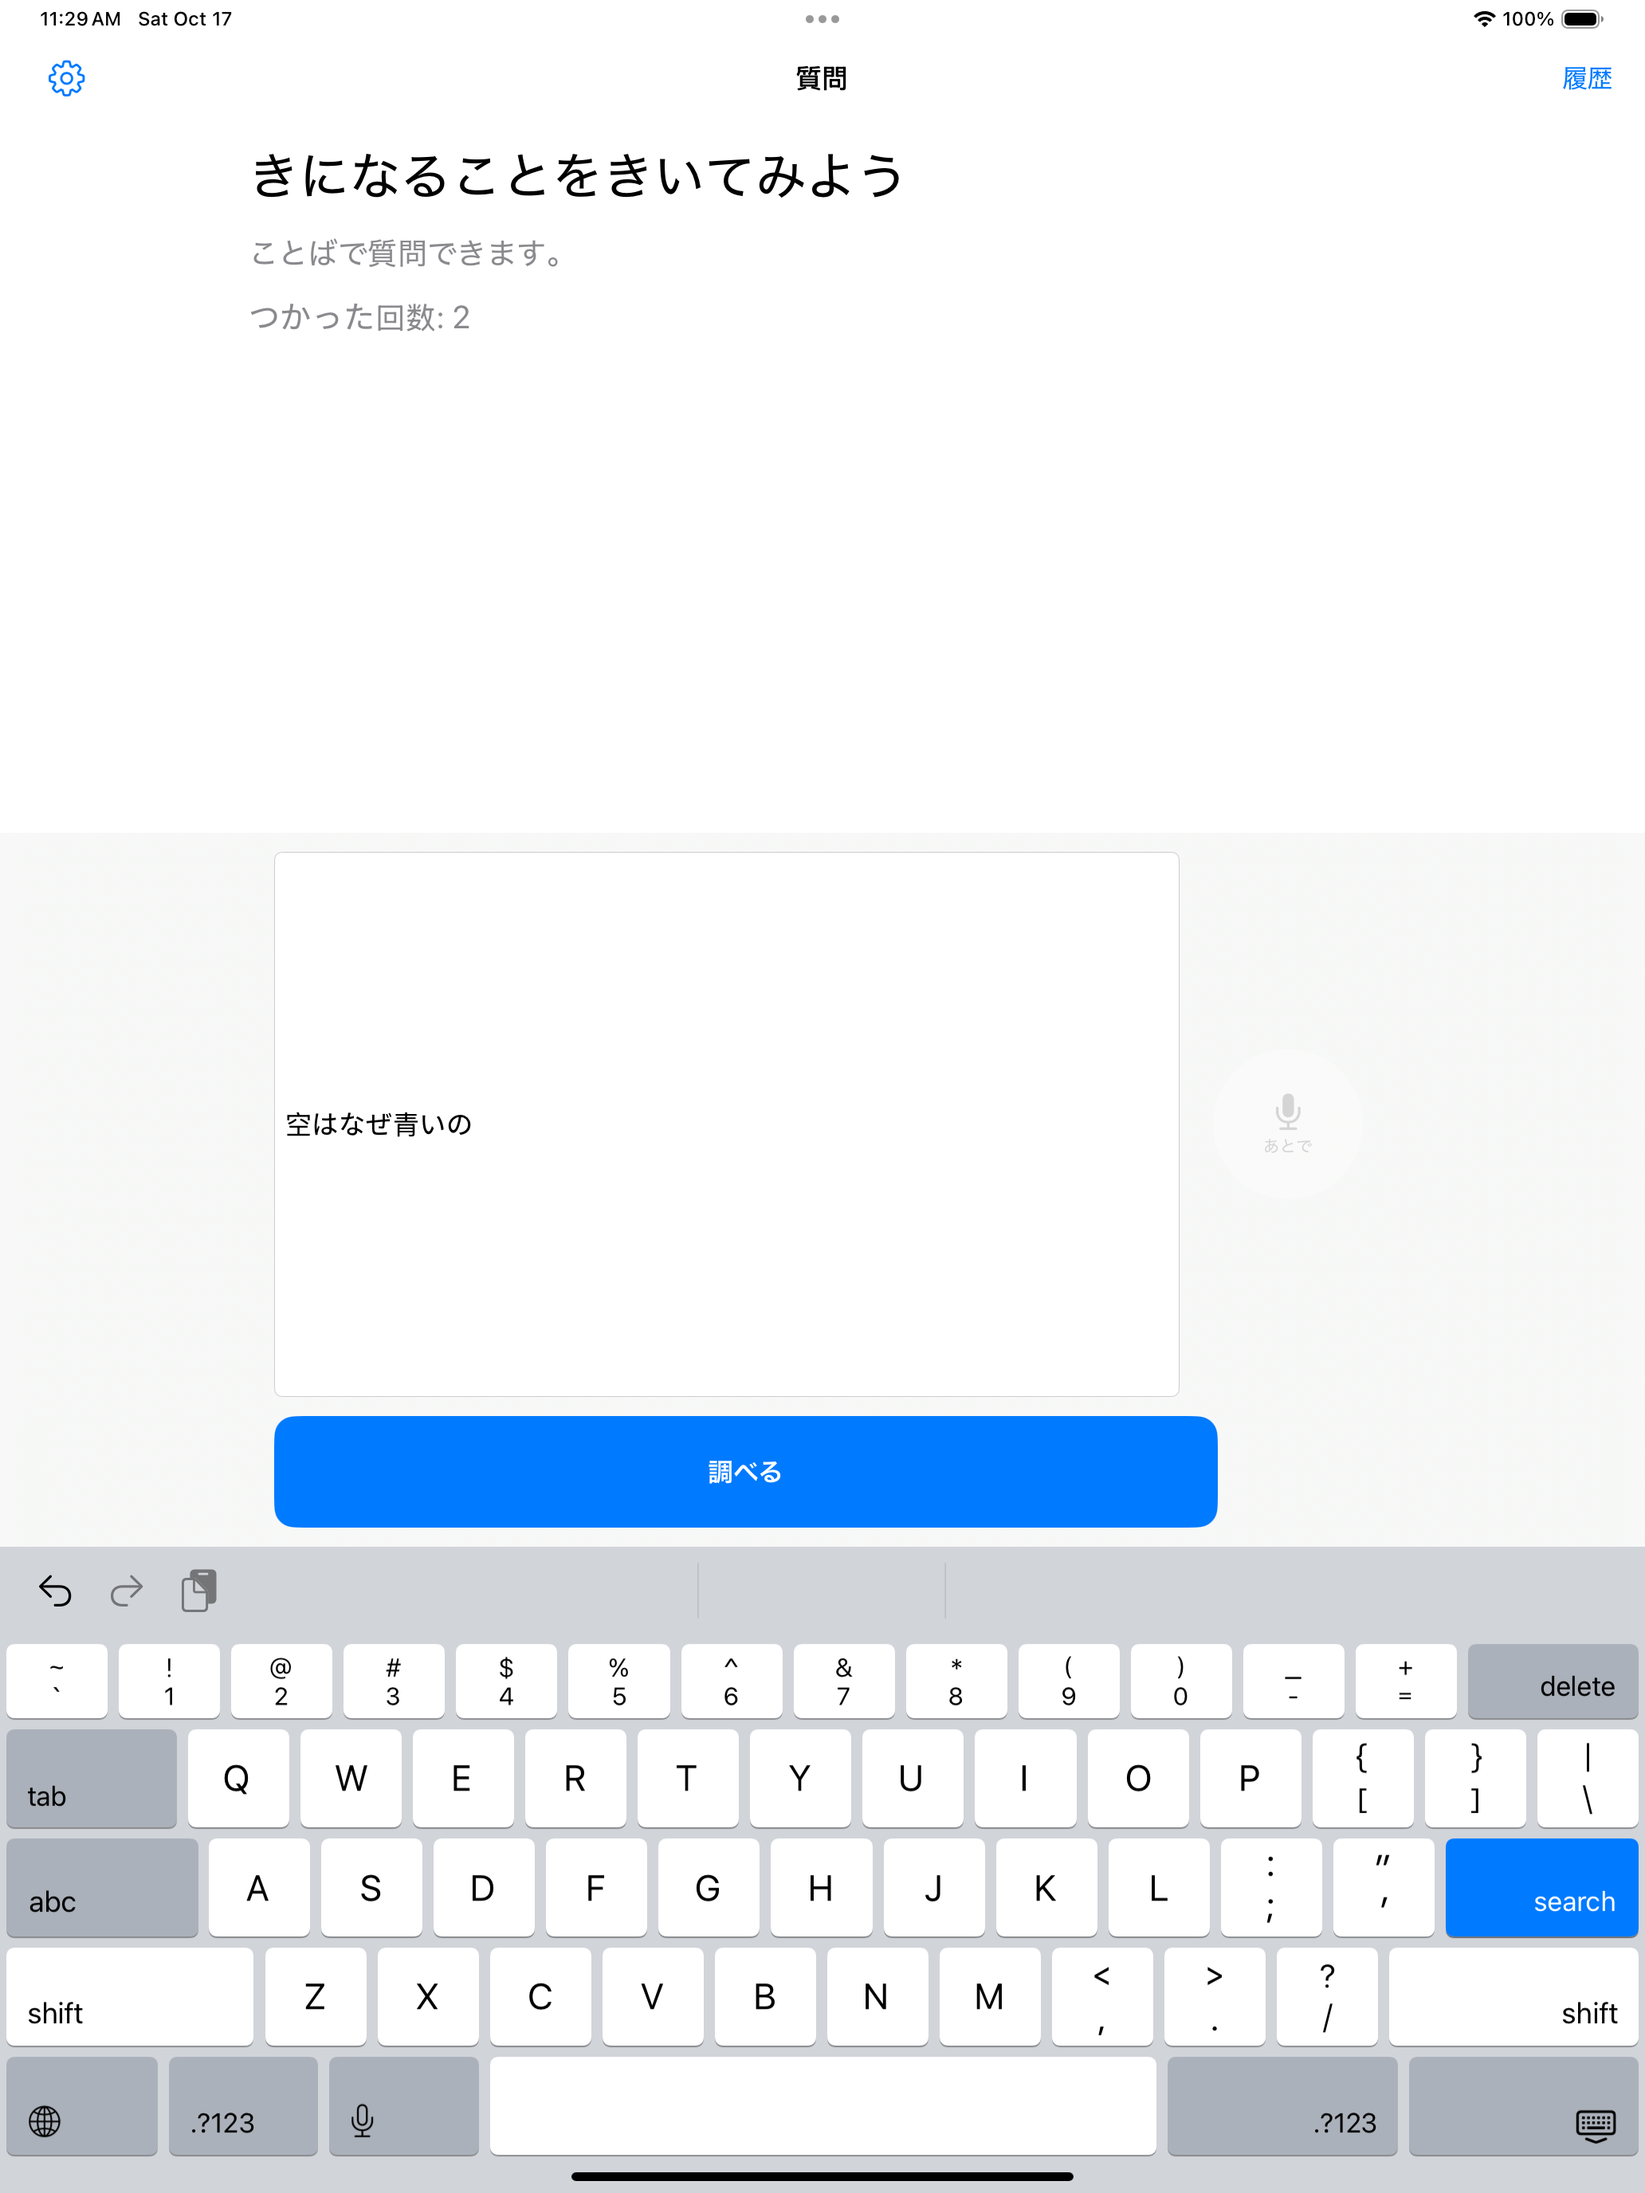
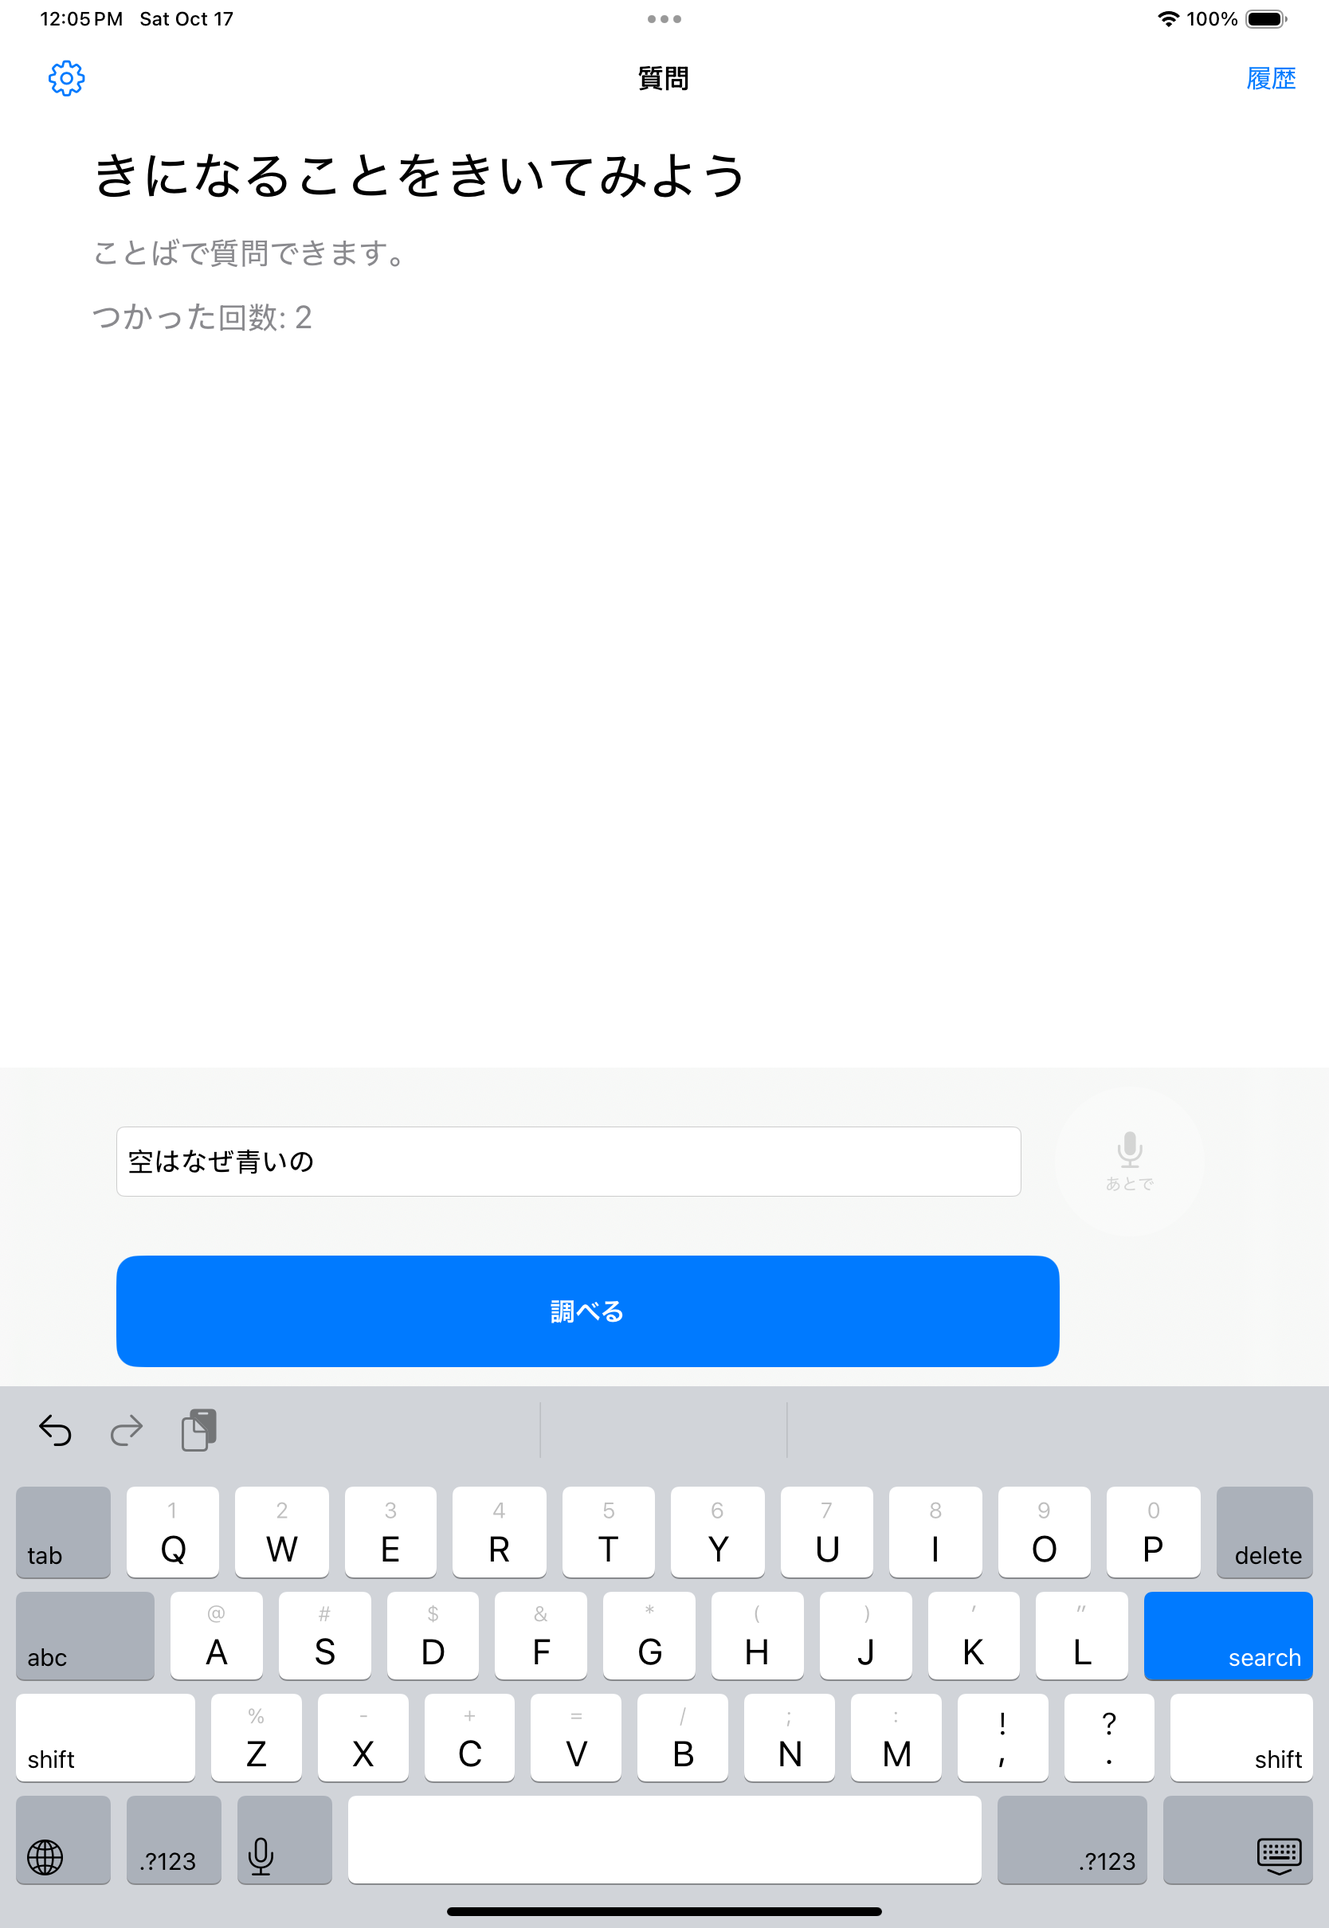
S2: 入力欄の高さを1行分にする (#5)
* S2: 質問欄を 1 行の高さにする

余った縦スペースを欄が受け取っていた。高さを 1 行に固定し、縦横の UI テストで極端な高さを拒否する。

* S2: 11インチの質問画面スクリーンショットを差し替える

質問欄を1行にしたあとの iPad Pro 11-inch シミュレータで、キーボードを出した縦横を取り直した。横は画素が横長で、正立のまま表示される。

---------

diff --git a/KininaruUITests/NavigationUITests.swift b/KininaruUITests/NavigationUITests.swift
@@ -147,6 +147,7 @@ final class NavigationUITests: XCTestCase {
             "調べるがキーボードに隠れている search=\(search.frame) keyboard=\(keyboard.frame)"
         )
         XCTAssertTrue(search.isEnabled)
+        assertQuestionFieldIsOneLine(in: app, note: orientation == .portrait ? "縦" : "横")
 
         let screenHeight = max(app.frame.height, app.windows.firstMatch.frame.height)
         let keyboardHeight = keyboard.frame.height
@@ -162,7 +163,23 @@ final class NavigationUITests: XCTestCase {
                 "調べるがキーボードより下にある search=\(search.frame) keyboard=\(keyboard.frame)"
             )
         }
-        saveScreenshot(shot)
+        saveScreenshot(shot, in: app)
+    }
+
+    /// 1 行分。340pt 級に伸びておらず、消えるほど低くもない。
+    private func assertQuestionFieldIsOneLine(in app: XCUIApplication, note: String) {
+        let field = questionField(in: app)
+        let height = field.frame.height
+        XCTAssertGreaterThanOrEqual(
+            height,
+            34,
+            "\(note)の入力欄が低すぎる height=\(height) frame=\(field.frame)"
+        )
+        XCTAssertLessThanOrEqual(
+            height,
+            68,
+            "\(note)の入力欄が高すぎる height=\(height) frame=\(field.frame)"
+        )
     }
 
     private func rotate(to orientation: UIDeviceOrientation) {
@@ -232,22 +249,44 @@ final class NavigationUITests: XCTestCase {
         XCTAssertFalse(element("searchButton", in: app).isEnabled)
     }
 
-    private func saveScreenshot(_ name: String) {
+    private func saveScreenshot(_ name: String, in app: XCUIApplication) {
         let shot = XCUIScreen.main.screenshot()
         let attachment = XCTAttachment(screenshot: shot)
         attachment.name = name
         attachment.lifetime = .keepAlways
         add(attachment)
 
+        // 13 インチの実行で上書きしない。ドキュメント用は 11 インチだけ残す。
+        guard isElevenInchPad(app) else { return }
+
+        let data = uprightPNG(from: shot.image)
         let directories = [
             ProcessInfo.processInfo.environment["KININARU_SCREENSHOT_DIR"],
             "/tmp/kininaru-ui-screenshots",
         ].compactMap { $0 }.filter { !$0.isEmpty }
-        let data = shot.pngRepresentation
         for directory in directories {
             let folder = URL(fileURLWithPath: directory, isDirectory: true)
             try? FileManager.default.createDirectory(at: folder, withIntermediateDirectories: true)
             try? data.write(to: folder.appendingPathComponent("\(name).png"))
         }
+    }
+
+    /// 短辺 834pt が 11 インチ、1032pt が 13 インチ。
+    private func isElevenInchPad(_ app: XCUIApplication) -> Bool {
+        let window = app.windows.firstMatch.frame
+        let bounds = window.width > 1 ? window : app.frame
+        return min(bounds.width, bounds.height) < 900
+    }
+
+    /// PNG は向きフラグを落とすことがある。ピクセルを正立にしてから書く。
+    private func uprightPNG(from image: UIImage) -> Data {
+        let format = UIGraphicsImageRendererFormat()
+        format.scale = image.scale
+        format.opaque = false
+        let renderer = UIGraphicsImageRenderer(size: image.size, format: format)
+        let upright = renderer.image { _ in
+            image.draw(in: CGRect(origin: .zero, size: image.size))
+        }
+        return upright.pngData() ?? image.pngData() ?? Data()
     }
 }

diff --git a/Kininaru/Features/Question/QuestionTextField.swift b/Kininaru/Features/Question/QuestionTextField.swift
@@ -33,10 +33,26 @@ struct QuestionTextField: UIViewRepresentable {
             action: #selector(Coordinator.editingChanged(_:)),
             for: .editingChanged
         )
+        // 横は親の幅に広がる。縦は 1 行で、余った高さを受け取らない。
         field.setContentHuggingPriority(.defaultLow, for: .horizontal)
         field.setContentCompressionResistancePriority(.defaultLow, for: .horizontal)
+        field.setContentHuggingPriority(.required, for: .vertical)
+        field.setContentCompressionResistancePriority(.required, for: .vertical)
         editor.field = field
         return field
+    }
+
+    func sizeThatFits(
+        _ proposal: ProposedViewSize,
+        uiView: UITextField,
+        context: Context
+    ) -> CGSize? {
+        let width = proposal.width ?? UIView.layoutFittingExpandedSize.width
+        let measured = uiView.sizeThatFits(
+            CGSize(width: width, height: UIView.layoutFittingCompressedSize.height)
+        )
+        let height = max(uiView.intrinsicContentSize.height, measured.height)
+        return CGSize(width: width, height: height)
     }
 
     func updateUIView(_ uiView: UITextField, context: Context) {
@@ -105,9 +121,15 @@ struct QuestionTextField: UIViewRepresentable {
     }
 }
 
-/// 横幅は親の提案に合わせる。プレースホルダの幅で縮まないようにする。
+/// 横幅は親の提案に合わせる。高さは 1 行で、最低でも押しやすい 44pt。
 private final class ExpandingTextField: UITextField {
     override var intrinsicContentSize: CGSize {
-        CGSize(width: UIView.noIntrinsicMetric, height: max(super.intrinsicContentSize.height, 44))
+        let fitted = super.intrinsicContentSize
+        return CGSize(width: UIView.noIntrinsicMetric, height: max(fitted.height, 44))
+    }
+
+    override func sizeThatFits(_ size: CGSize) -> CGSize {
+        let fitted = super.sizeThatFits(size)
+        return CGSize(width: fitted.width, height: max(fitted.height, 44))
     }
 }

diff --git a/Kininaru/Features/Question/QuestionView.swift b/Kininaru/Features/Question/QuestionView.swift
@@ -75,6 +75,7 @@ struct QuestionView: View {
                 QuestionTextField(text: $model.draft, editor: fieldEditor) {
                     model.submitQuestion()
                 }
+                .fixedSize(horizontal: false, vertical: true)
                 .frame(maxWidth: .infinity, minHeight: 44)
 
                 micButton
